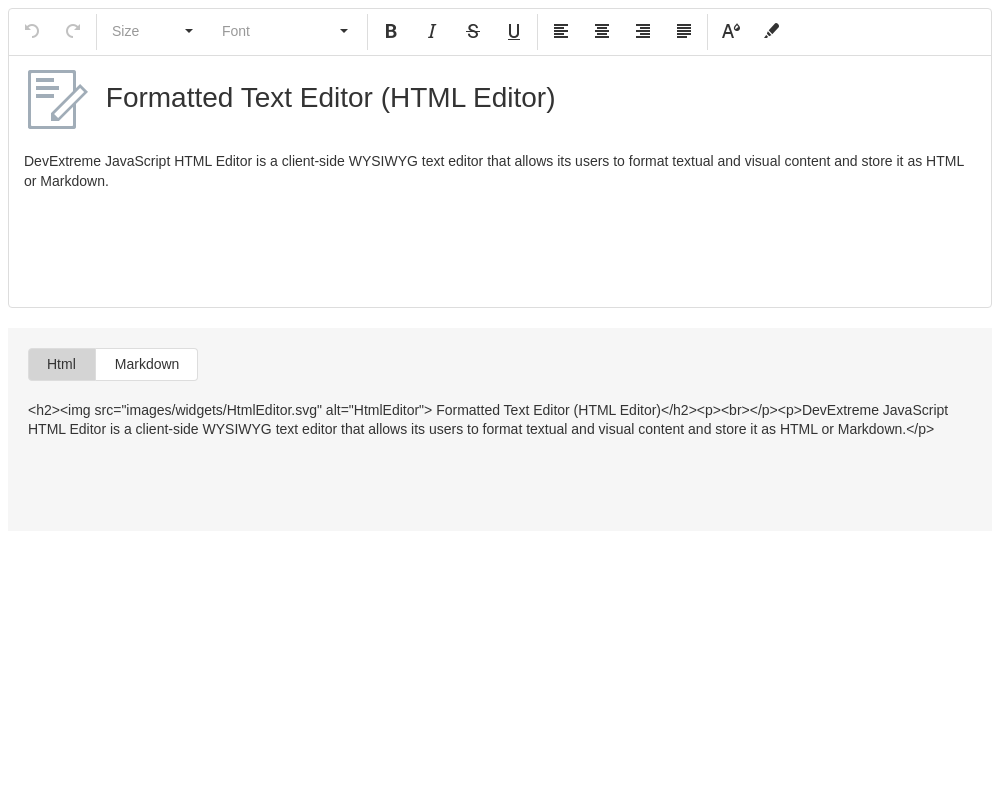
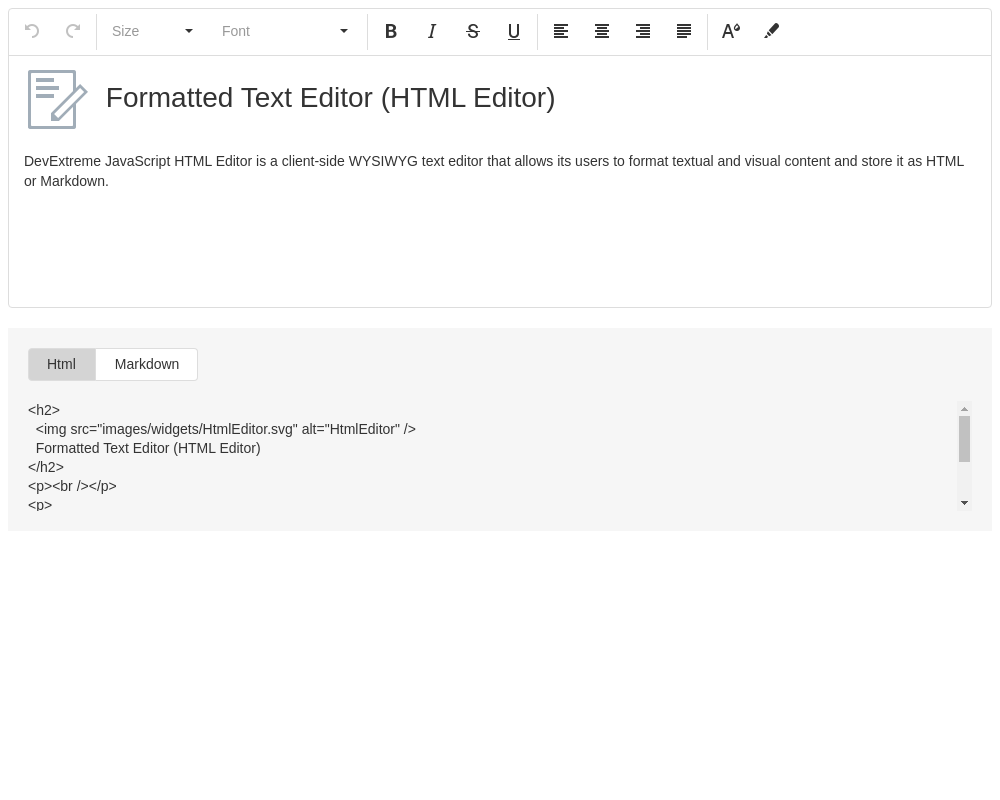
HtmlEditor "Output Format" demo: add the Prettier (#1979)
* Added the Prettier formatting to the 'Output Formats' demos

* Replaced etalon and renamed the updateOutput function

Changed region(s): [[0.031, 0.5, 0.992, 0.6562]]

diff --git a/JSDemos/Demos/HtmlEditor/OutputFormats/jQuery/index.js b/JSDemos/Demos/HtmlEditor/OutputFormats/jQuery/index.js
@@ -1,4 +1,9 @@
 $(() => {
+  const formatOutput = (value, valueType) => {
+    const formattedValue = valueType === 'html' ? prettierFormat(value) : value;
+    $('.value-content').text(formattedValue);
+  };
+
   const editorInstance = $('.html-editor').dxHtmlEditor({
     height: 300,
     value: markup,
@@ -19,8 +24,8 @@ $(() => {
         'color', 'background',
       ],
     },
-    onValueChanged(e) {
-      $('.value-content').text(e.component.option('value'));
+    onValueChanged({ component, value }) {
+      formatOutput(value, component.option('valueType'));
     },
   }).dxHtmlEditor('instance');
 
@@ -28,10 +33,19 @@ $(() => {
     items: [{ text: 'Html' }, { text: 'Markdown' }],
     selectedItemKeys: ['Html'],
     onSelectionChanged(e) {
-      editorInstance.option('valueType', e.addedItems[0].text.toLowerCase());
-      $('.value-content').text(editorInstance.option('value'));
+      const valueType = e.addedItems[0].text.toLowerCase();
+      editorInstance.option({ valueType });
+      const value = editorInstance.option('value');
+      formatOutput(value, valueType);
     },
   });
 
-  $('.value-content').text(markup);
+  formatOutput(markup, 'html');
 });
+
+function prettierFormat(markup) {
+  return prettier.format(markup, {
+    parser: 'html',
+    plugins: prettierPlugins,
+  });
+}

diff --git a/JSDemos/Demos/HtmlEditor/OutputFormats/React/App.js b/JSDemos/Demos/HtmlEditor/OutputFormats/React/App.js
@@ -2,6 +2,8 @@ import React from 'react';
 
 import HtmlEditor, { Toolbar, Item } from 'devextreme-react/html-editor';
 import ButtonGroup, { Item as ButtonItem } from 'devextreme-react/button-group';
+import prettier from 'prettier/standalone';
+import parserHtml from 'prettier/parser-html';
 import { markup } from './data.js';
 
 import 'devextreme/ui/html_editor/converters/markdown';
@@ -21,6 +23,7 @@ class App extends React.Component {
 
     this.valueChanged = this.valueChanged.bind(this);
     this.valueTypeChanged = this.valueTypeChanged.bind(this);
+    this.prettierFormat = this.prettierFormat.bind(this);
   }
 
   render() {
@@ -71,7 +74,7 @@ class App extends React.Component {
             <ButtonItem text="Markdown" />
           </ButtonGroup>
           <div className="value-content">
-            {valueContent}
+            {this.prettierFormat(valueContent)}
           </div>
         </div>
       </div>
@@ -88,6 +91,16 @@ class App extends React.Component {
     this.setState({
       editorValueType: e.addedItems[0].text.toLowerCase(),
     });
+  }
+
+  prettierFormat(text) {
+    if (this.state.editorValueType === 'html') {
+      return prettier.format(text, {
+        parser: 'html',
+        plugins: [parserHtml],
+      });
+    }
+    return text;
   }
 }
 

diff --git a/JSDemos/Demos/HtmlEditor/OutputFormats/Vue/App.vue b/JSDemos/Demos/HtmlEditor/OutputFormats/Vue/App.vue
@@ -38,7 +38,7 @@
         <DxButtonGroupItem text="Html"/>
         <DxButtonGroupItem text="Markdown"/>
       </DxButtonGroup>
-      <div class="value-content">{{ valueContent }}</div>
+      <div class="value-content">{{ prettierFormat(valueContent) }}</div>
     </div>
   </div>
 </template>
@@ -53,6 +53,9 @@ import {
   DxButtonGroup,
   DxItem as DxButtonGroupItem,
 } from 'devextreme-vue/button-group';
+
+import prettier from 'prettier/standalone';
+import parserHtml from 'prettier/parser-html';
 
 import { markup } from './data.js';
 
@@ -77,6 +80,17 @@ export default {
   computed: {
     editorValueType() {
       return this.selectedItems[0].text.toLowerCase();
+    },
+  },
+  methods: {
+    prettierFormat(text) {
+      if (this.editorValueType === 'html') {
+        return prettier.format(text, {
+          parser: 'html',
+          plugins: [parserHtml],
+        });
+      }
+      return text;
     },
   },
 };

diff --git a/JSDemos/Demos/HtmlEditor/OutputFormats/AngularJS/index.html b/JSDemos/Demos/HtmlEditor/OutputFormats/AngularJS/index.html
@@ -13,6 +13,8 @@
     <script src="../../../../../node_modules/turndown/dist/turndown.js"></script>
     <script src="../../../../../node_modules/devextreme-showdown/dist/showdown.js"></script>
     <script src="../../../../../node_modules/devextreme/dist/js/dx.all.js"></script>
+    <script src="../../../../../node_modules/prettier/standalone.js"></script>
+    <script src="../../../../../node_modules/prettier/parser-html.js"></script>
     <script src="data.js"></script>
     <link rel="stylesheet" type="text/css" href="styles.css" />
     <script src="index.js"></script>
@@ -22,7 +24,7 @@
       <div dx-html-editor="htmlEditorOptions"></div>
       <div class="options">
         <div dx-button-group="buttonGroupOptions"></div>
-        <div class="value-content" ng-bind="editorValue"></div>
+        <div class="value-content" ng-bind="prettierFormat(editorValue)"></div>
       </div>
     </div>
   </body>

diff --git a/JSDemos/Demos/HtmlEditor/OutputFormats/Angular/app/app.component.ts b/JSDemos/Demos/HtmlEditor/OutputFormats/Angular/app/app.component.ts
@@ -10,6 +10,8 @@ import {
 
 import 'devextreme/ui/html_editor/converters/markdown';
 
+import prettier from 'prettier/standalone';
+import parserHtml from 'prettier/parser-html';
 import { Service } from './app.service';
 
 if (!/localhost/.test(document.location.host)) {
@@ -26,7 +28,7 @@ if (!/localhost/.test(document.location.host)) {
 export class AppComponent {
   valueContent: string;
 
-  editorValueType: string;
+  editorValueType = 'html';
 
   constructor(service: Service) {
     this.valueContent = service.getMarkup();
@@ -34,6 +36,16 @@ export class AppComponent {
 
   onValueTypeChanged({ addedItems }) {
     this.editorValueType = addedItems[0].text.toLowerCase();
+  }
+
+  prettierFormat(markup: string) {
+    if (this.editorValueType === 'html') {
+      return prettier.format(markup, {
+        parser: 'html',
+        plugins: [parserHtml],
+      });
+    }
+    return markup;
   }
 }
 

diff --git a/JSDemos/Demos/HtmlEditor/OutputFormats/AngularJS/index.js b/JSDemos/Demos/HtmlEditor/OutputFormats/AngularJS/index.js
@@ -2,6 +2,12 @@ const DemoApp = angular.module('DemoApp', ['dx']);
 
 DemoApp.controller('DemoController', ($scope) => {
   $scope.editorValue = markup;
+  $scope.prettierFormat = function (markup) {
+    return prettier.format(markup, {
+      parser: 'html',
+      plugins: prettierPlugins,
+    });
+  };
   $scope.htmlEditorOptions = {
     height: 300,
     toolbar: {
@@ -24,6 +30,7 @@ DemoApp.controller('DemoController', ($scope) => {
     bindingOptions: {
       value: 'editorValue',
       valueType: 'editorValueType',
+      prettierFormat: 'prettierFormat',
     },
   };
 

diff --git a/JSDemos/Demos/HtmlEditor/OutputFormats/jQuery/index.html b/JSDemos/Demos/HtmlEditor/OutputFormats/jQuery/index.html
@@ -12,6 +12,8 @@
     <script src="../../../../../node_modules/turndown/dist/turndown.js"></script>
     <script src="../../../../../node_modules/devextreme-showdown/dist/showdown.js"></script>
     <script src="../../../../../node_modules/devextreme/dist/js/dx.all.js"></script>
+    <script src="../../../../../node_modules/prettier/standalone.js"></script>
+    <script src="../../../../../node_modules/prettier/parser-html.js"></script>
     <script src="data.js"></script>
     <link rel="stylesheet" type="text/css" href="styles.css" />
     <script src="index.js"></script>

diff --git a/JSDemos/Demos/HtmlEditor/OutputFormats/Knockout/index.js b/JSDemos/Demos/HtmlEditor/OutputFormats/Knockout/index.js
@@ -1,6 +1,13 @@
 window.onload = function () {
   const editorValueType = ko.observable('html');
 
+  function prettierFormat(markup) {
+    return prettier.format(markup, {
+      parser: 'html',
+      plugins: prettierPlugins,
+    });
+  }
+
   const viewModel = {
     valueContent: ko.observable(),
     htmlEditorOptions: {
@@ -24,7 +31,7 @@ window.onload = function () {
         ],
       },
       onValueChanged(e) {
-        this.valueContent(e.value);
+        this.valueContent(prettierFormat(e.value));
       },
     },
     buttonGroupOptions: {

diff --git a/JSDemos/Demos/HtmlEditor/OutputFormats/Knockout/index.html b/JSDemos/Demos/HtmlEditor/OutputFormats/Knockout/index.html
@@ -13,6 +13,8 @@
     <script src="../../../../../node_modules/turndown/dist/turndown.js"></script>
     <script src="../../../../../node_modules/devextreme-showdown/dist/showdown.js"></script>
     <script src="../../../../../node_modules/devextreme/dist/js/dx.all.js"></script>
+    <script src="../../../../../node_modules/prettier/standalone.js"></script>
+    <script src="../../../../../node_modules/prettier/parser-html.js"></script>
     <link rel="stylesheet" type="text/css" href="styles.css" />
     <script src="index.js"></script>
 </head>

diff --git a/JSDemos/configs/Angular/config.js b/JSDemos/configs/Angular/config.js
@@ -117,6 +117,10 @@ window.config = {
     'inferno-clone-vnode': 'npm:inferno-clone-vnode/dist/inferno-clone-vnode.min.js',
     'inferno-create-class': 'npm:inferno-create-class/dist/inferno-create-class.min.js',
     'inferno-extras': 'npm:inferno-extras/dist/inferno-extras.min.js',
+
+    // Prettier
+    'prettier/standalone': 'npm:prettier/standalone.js',
+    'prettier/parser-html': 'npm:prettier/parser-html.js',
   },
   packages: {
     'app': {

diff --git a/JSDemos/configs/React/config.js b/JSDemos/configs/React/config.js
@@ -116,6 +116,10 @@ window.config = {
     // SystemJS plugins
     'plugin-babel': 'npm:systemjs-plugin-babel/plugin-babel.js',
     'systemjs-babel-build': 'npm:systemjs-plugin-babel/systemjs-babel-browser.js',
+
+    // Prettier
+    'prettier/standalone': 'npm:prettier/standalone.js',
+    'prettier/parser-html': 'npm:prettier/parser-html.js',
   },
   packages: {
     'devextreme': {

diff --git a/JSDemos/configs/Vue/config.js b/JSDemos/configs/Vue/config.js
@@ -118,6 +118,10 @@ window.config = {
 
     'plugin-babel': 'npm:systemjs-plugin-babel/plugin-babel.js',
     'systemjs-babel-build': 'npm:systemjs-plugin-babel/systemjs-babel-browser.js',
+
+    // Prettier
+    'prettier/standalone': 'npm:prettier/standalone.js',
+    'prettier/parser-html': 'npm:prettier/parser-html.js',
   },
   packages: {
     'devextreme-vue': {
